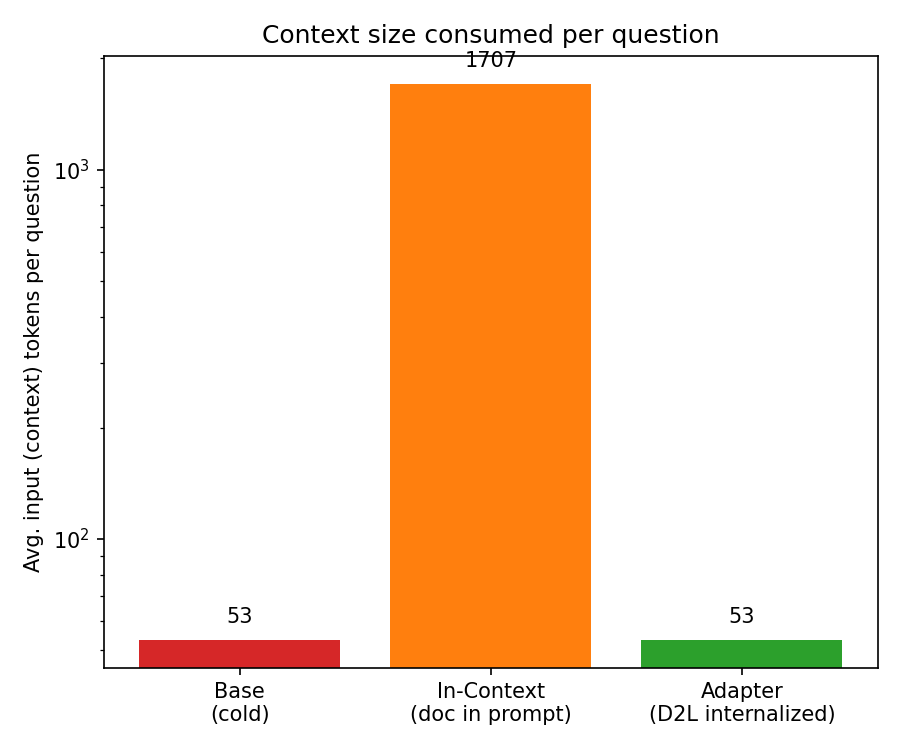
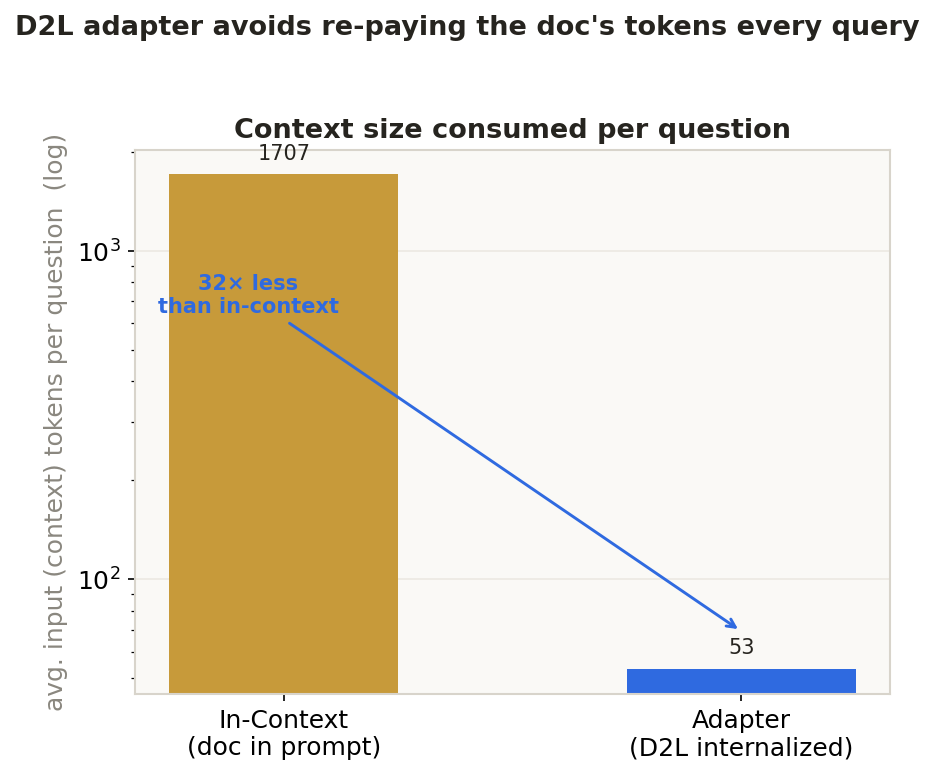
update benchmark imgs

diff --git a/src/agenthn/webapp/static/app.js b/src/agenthn/webapp/static/app.js
@@ -811,7 +811,7 @@ function rcReset() {
   RC.lastBaseReply = "";
   RC.lastSkill = null;
   $("rcChat").innerHTML = "";
-  rcAddMsg("rcChat", "bot", "Hi — ask me a physics word problem, or ask for structured output (JSON / YAML / protobuf / bullets). I'll answer cold first; then we'll classify, internalize, and ask again.");
+  rcAddMsg("rcChat", "bot", "Ask me a question...");
   $("rcClassifyBtn").disabled = true;
   $("rcClassifyStatus").style.display = "none";
   $("rcDoc").style.display = "none";

diff --git a/src/agenthn/webapp/static/index.html b/src/agenthn/webapp/static/index.html
@@ -591,7 +591,7 @@
       </div>
       <div id="rcChat" class="feed" style="height:220px"></div>
       <div class="inputrow">
-        <input id="rcInput" type="text" placeholder="Ask a physics word problem, or ask for JSON/YAML/proto/bullets…" autocomplete="off">
+        <input id="rcInput" type="text" placeholder="..." autocomplete="off">
         <button id="rcSend" class="btn-primary">Send</button>
       </div>
 

diff --git a/skill-acquisition/make_physics_charts.py b/skill-acquisition/make_physics_charts.py
@@ -1,0 +1,95 @@
+"""Render physics_benchmark_results.json -> accuracy_by_condition.png and
+context_tokens.png, styled to match scripts/make_scaling_chart.py's theme.
+
+Reads the existing benchmark JSON only -- does not re-run the model or
+recompute any results.
+"""
+
+import json
+from pathlib import Path
+
+import matplotlib
+matplotlib.use("Agg")
+import matplotlib.pyplot as plt
+import numpy as np
+
+HERE = Path(__file__).resolve().parent
+DATA = HERE / "physics_benchmark_results.json"
+
+BLUE = "#2f6ae0"
+GREY = "#94908a"
+GOLD = "#c79a3a"
+INK = "#26241f"
+DIM = "#8a877f"
+
+
+def main():
+    d = json.loads(DATA.read_text())
+    rows = d["rows"]
+    n = len(rows)
+    conditions = ["base", "in_context", "adapter"]
+    labels = ["Base\n(cold)", "In-Context\n(doc in prompt)", "Adapter\n(D2L internalized)"]
+    colors = [GREY, GOLD, BLUE]
+
+    plt.rcParams.update({
+        "font.family": "DejaVu Sans", "font.size": 12,
+        "axes.edgecolor": "#d8d4cb", "axes.linewidth": 1,
+        "axes.titlesize": 13, "axes.titleweight": "bold",
+    })
+
+    # --- accuracy_by_condition.png: all three columns, same order ---
+    pass_rates = [100 * sum(r[f"{c}_pass"] for r in rows) / n for c in conditions]
+    passed_n = [sum(r[f"{c}_pass"] for r in rows) for c in conditions]
+
+    fig, ax = plt.subplots(figsize=(7, 5), dpi=150)
+    fig.patch.set_facecolor("white")
+    ax.set_facecolor("#faf9f6")
+    ax.grid(True, axis="y", color="#ece9e2", linewidth=0.8)
+    ax.set_axisbelow(True)
+    bars = ax.bar(labels, pass_rates, color=colors, width=0.6)
+    ax.set_ylabel("pass rate (%)", color=DIM)
+    ax.set_ylim(0, 108)
+    ax.set_title("Physics word-problem accuracy", color=INK)
+    for bar, rate, np_ in zip(bars, pass_rates, passed_n):
+        ax.text(bar.get_x() + bar.get_width() / 2, rate + 2.5, f"{rate:.0f}%\n({np_}/{n})",
+                ha="center", va="bottom", fontsize=10, color=INK)
+    fig.suptitle("Physics skill acquisition: base vs. in-context vs. D2L adapter",
+                 fontsize=14, fontweight="bold", color=INK, y=0.98)
+    fig.tight_layout(rect=[0, 0, 1, 0.92])
+    fig.savefig(HERE / "accuracy_by_condition.png", bbox_inches="tight", facecolor="white", dpi=150)
+    plt.close(fig)
+
+    # --- context_tokens.png: only in_context and adapter columns ---
+    ctx_conditions = ["in_context", "adapter"]
+    ctx_labels = ["In-Context\n(doc in prompt)", "Adapter\n(D2L internalized)"]
+    ctx_colors = [GOLD, BLUE]
+    avg_input_tokens = [np.mean([r[f"{c}_input_tokens"] for r in rows]) for c in ctx_conditions]
+
+    fig, ax = plt.subplots(figsize=(6, 5), dpi=150)
+    fig.patch.set_facecolor("white")
+    ax.set_facecolor("#faf9f6")
+    ax.grid(True, axis="y", color="#ece9e2", linewidth=0.8)
+    ax.set_axisbelow(True)
+    bars = ax.bar(ctx_labels, avg_input_tokens, color=ctx_colors, width=0.5)
+    ax.set_yscale("log")
+    ax.set_ylabel("avg. input (context) tokens per question  (log)", color=DIM)
+    ax.set_title("Context size consumed per question", color=INK)
+    for bar, val in zip(bars, avg_input_tokens):
+        ax.text(bar.get_x() + bar.get_width() / 2, val * 1.08, f"{val:.0f}",
+                ha="center", va="bottom", fontsize=10, color=INK)
+    ratio = avg_input_tokens[0] / avg_input_tokens[1]
+    ax.annotate(f"{ratio:.0f}× less\nthan in-context", xy=(1, avg_input_tokens[1] * 1.3),
+                xytext=(0.15, 0.7), textcoords="axes fraction",
+                color=BLUE, fontsize=10, ha="center", fontweight="bold",
+                arrowprops=dict(arrowstyle="->", color=BLUE, lw=1.4))
+    fig.suptitle("D2L adapter avoids re-paying the doc's tokens every query",
+                 fontsize=13, fontweight="bold", color=INK, y=1.03)
+    fig.tight_layout()
+    fig.savefig(HERE / "context_tokens.png", bbox_inches="tight", facecolor="white", dpi=150)
+    plt.close(fig)
+
+    print("wrote accuracy_by_condition.png, context_tokens.png")
+
+
+if __name__ == "__main__":
+    main()